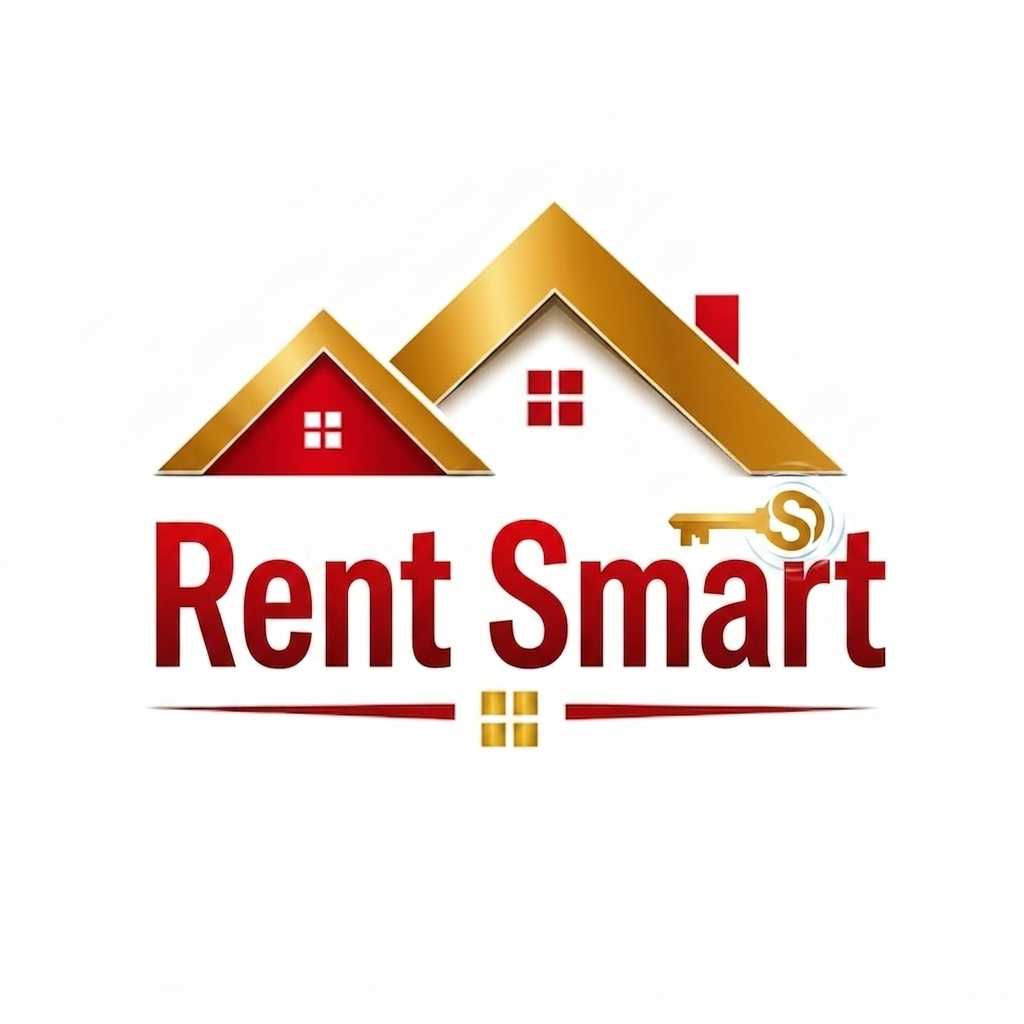
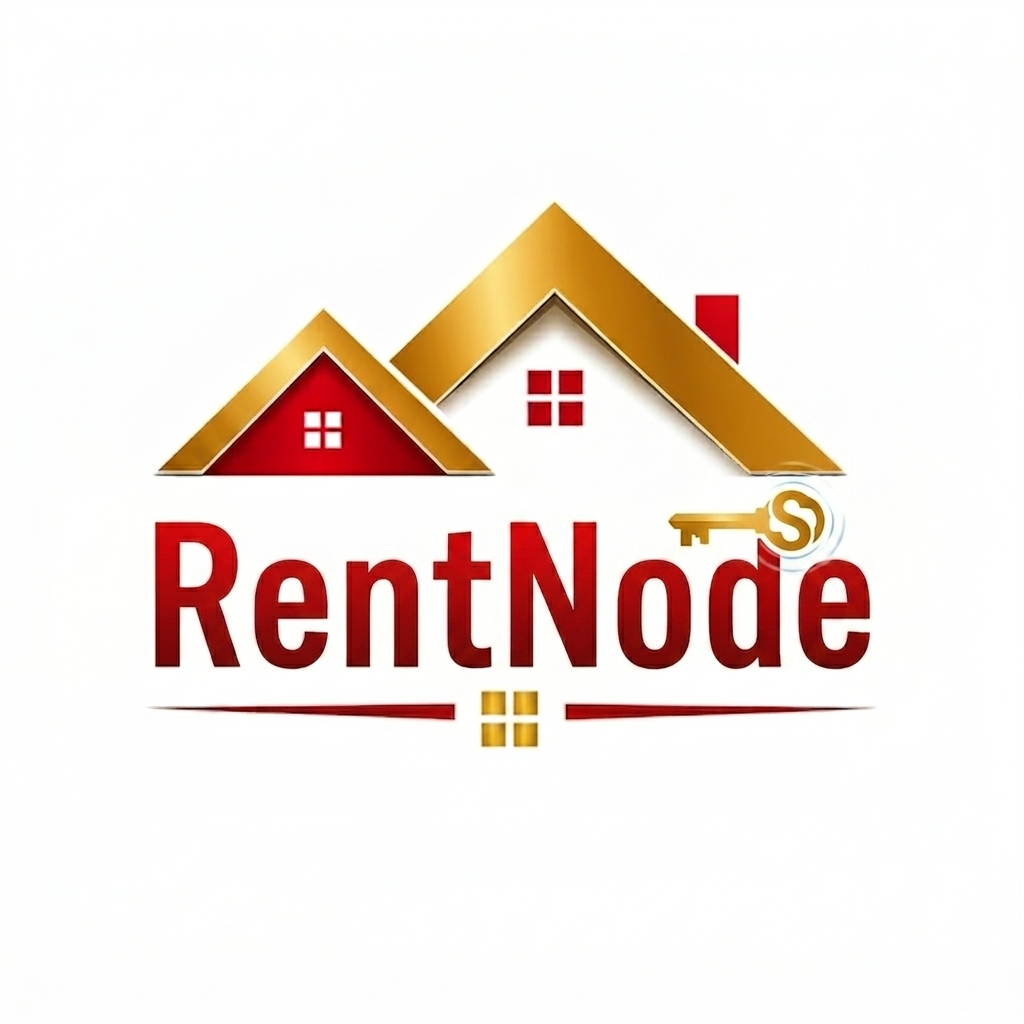
feat: add SEO-optimized blog, guides, and how-it-works pages, upgrade to TypeScript 6.0.3, and configure bundle analyzer

Changed region(s): [[0.1875, 0.5, 0.875, 0.6562], [0.125, 0.5312, 0.1562, 0.5938]]

diff --git a/next.config.ts b/next.config.ts
@@ -1,28 +1,21 @@
-
-import type {NextConfig} from 'next';
+import type { NextConfig } from 'next';
+import withBundleAnalyzer from '@next/bundle-analyzer';
 
 const nextConfig: NextConfig = {
-  /* config options here */
-  typescript: {
-    ignoreBuildErrors: true,
-  },
-  eslint: {
-    ignoreDuringBuilds: true,
-  },
+  reactStrictMode: true,
+  swcMinify: true,
   images: {
     remotePatterns: [
       {
         protocol: 'https',
         hostname: 'placehold.co',
-        port: '',
         pathname: '/**',
       },
       {
         protocol: 'https',
         hostname: 'picsum.photos',
-        port: '',
         pathname: '/**',
-      }
+      },
     ],
   },
   env: {
@@ -38,6 +31,16 @@ const nextConfig: NextConfig = {
       },
     ];
   },
+  async headers() {
+    return [
+      {
+        source: '/:all*(svg|png|jpg|jpeg|gif|webp|ico|ttf|woff|woff2)',
+        headers: [
+          { key: 'Cache-Control', value: 'public, max-age=31536000, immutable' },
+        ],
+      },
+    ];
+  },
 };
 
-export default nextConfig;
+export default withBundleAnalyzer({ enabled: process.env.ANALYZE === 'true' })(nextConfig);

diff --git a/src/app/how-it-works/page.tsx b/src/app/how-it-works/page.tsx
@@ -7,6 +7,7 @@ export const metadata: Metadata = {
   description: 'Learn how RentNode helps landlords create accounts, add properties, collect rent via M‑Pesa, and track everything in one dashboard.',
   keywords: ['rent management workflow', 'how rent collection works', 'M‑Pesa rent SaaS', 'RentNode tutorial']
 };
+export const revalidate = 86400;
 
 export default function HowItWorksPage() {
   return (

diff --git a/src/app/blog/page.tsx b/src/app/blog/page.tsx
@@ -6,6 +6,7 @@ export const metadata: Metadata = {
   description: 'Read the latest articles, guides, and case studies about RentNode, property management, and M-Pesa rent collection.',
   keywords: ['RentNode blog', 'rental management Kenya', 'property management guide', 'M-Pesa rent'],
 };
+export const revalidate = 86400;
 
 export default function BlogPage() {
   return (

diff --git a/src/app/guides/page.tsx b/src/app/guides/page.tsx
@@ -6,6 +6,7 @@ export const metadata = {
   description: 'Brief overview of RentNode guides covering account setup, M‑Pesa integration, daily operations, and troubleshooting.',
   keywords: ['rent management guide','landlord tutorials','M-Pesa rent collection']
 };
+export const revalidate = 86400;
 
 export default function GuidesPage() {
   return (
